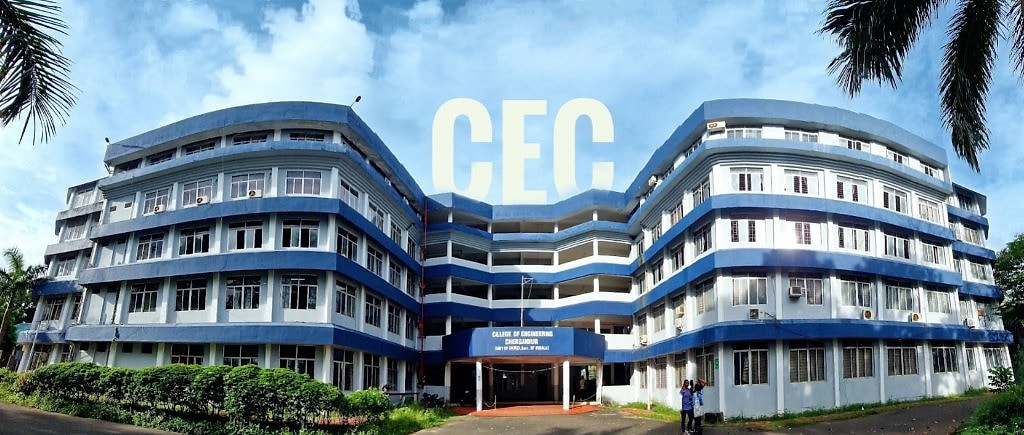
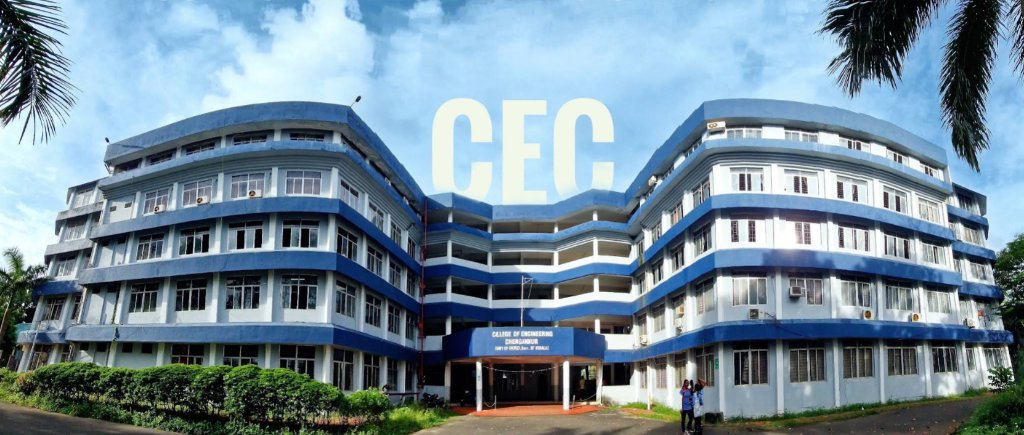
feat: integrate uploaded college campus photo with WebP and editorial styling

diff --git a/src/sections/Venue.jsx b/src/sections/Venue.jsx
@@ -54,7 +54,7 @@ function MapFacade() {
   const linkLabel = mapsUrl ? 'Open in Google Maps' : 'Search on Google Maps'
 
   return (
-    <div className="rounded-[var(--radius-md)] overflow-hidden border border-[var(--color-near-black)]/10 bg-white shadow-xs w-full">
+    <div className="rounded-[var(--radius-md)] overflow-hidden border border-[var(--color-near-black)]/12 bg-white shadow-xs w-full">
       {/* Map area: full width aspect-[4/3] without right-edge gap */}
       <div className="relative bg-[var(--color-cream)] w-full aspect-[4/3] overflow-hidden">
         {!loaded ? (
@@ -126,7 +126,7 @@ function MapFacade() {
       </div>
 
       {/* Footer link */}
-      <div className="px-4 py-3 bg-white border-t border-[var(--color-near-black)]/5 flex items-center justify-between">
+      <div className="px-4 py-3 bg-white border-t border-[var(--color-near-black)]/10 flex items-center justify-between">
         <a
           href={linkUrl}
           target="_blank"
@@ -198,7 +198,7 @@ export default function Venue() {
           <div className="mb-10 lg:mb-0">
             {/* Campus photo or geometric panel */}
             {eventConfig.venue.photo ? (
-              <div className="rounded-[var(--radius-md)] overflow-hidden border border-[var(--color-near-black)]/10 mb-8 bg-white shadow-xs">
+              <div className="group rounded-[var(--radius-md)] overflow-hidden border border-[var(--color-near-black)]/12 mb-8 bg-white shadow-xs hover:shadow-md transition-shadow duration-300">
                 <div className="relative aspect-[2.35/1] overflow-hidden bg-[var(--color-near-black)]/5">
                   <picture>
                     <source srcSet="/images/cec-campus.webp" type="image/webp" />
@@ -209,25 +209,39 @@ export default function Venue() {
                       height="435"
                       loading="lazy"
                       decoding="async"
-                      className="w-full h-full object-cover object-center"
+                      className="w-full h-full object-cover object-center transition-transform duration-700 ease-out group-hover:scale-[1.025] motion-reduce:transform-none"
                     />
                   </picture>
+
+                  {/* Gradient scrim at bottom for text legibility */}
+                  <div
+                    className="absolute inset-x-0 bottom-0 h-16 bg-gradient-to-t from-[var(--color-near-black)]/60 via-[var(--color-near-black)]/20 to-transparent pointer-events-none"
+                    aria-hidden="true"
+                  />
+
                   {/* Subtle location tag pill overlay */}
                   <span
-                    className="absolute bottom-3 left-3 px-2.5 py-1
+                    className="absolute bottom-3 left-3 px-3 py-1
                                font-[family-name:var(--font-body)] text-[11px] font-medium tracking-wide
-                               bg-[var(--color-near-black)]/75 text-[var(--color-cream)]
-                               rounded-[var(--radius-full)] backdrop-blur-xs shadow-xs"
+                               bg-[var(--color-near-black)]/85 text-[var(--color-cream)]
+                               rounded-[var(--radius-full)] backdrop-blur-xs shadow-xs
+                               flex items-center gap-1.5 border border-white/10"
                   >
+                    <svg className="w-3 h-3 text-[var(--color-orange)]" viewBox="0 0 12 12" fill="currentColor" aria-hidden="true">
+                      <path d="M6 1C4.343 1 3 2.343 3 4c0 2.25 3 7 3 7s3-4.75 3-7c0-1.657-1.343-3-3-3zm0 4.25a1.25 1.25 0 1 1 0-2.5 1.25 1.25 0 0 1 0 2.5z" />
+                    </svg>
                     Main Block · Chengannur
                   </span>
                 </div>
-                <div className="px-4 py-3 bg-white border-t border-[var(--color-near-black)]/5 flex items-center justify-between">
-                  <span className="font-[family-name:var(--font-body)] text-xs text-[var(--color-near-black)] opacity-70 font-medium">
+                <div className="px-4 py-3 bg-white border-t border-[var(--color-near-black)]/10 flex items-center justify-between">
+                  <span className="font-[family-name:var(--font-body)] text-xs text-[var(--color-near-black)] opacity-80 font-medium">
                     {eventConfig.venue.college}
                   </span>
-                  <span className="font-[family-name:var(--font-body)] text-[11px] text-[var(--color-near-black)] opacity-50 uppercase tracking-widest flex items-center gap-1.5">
-                    <span className="w-1.5 h-1.5 rounded-full bg-[var(--color-orange)] inline-block" aria-hidden="true" />
+                  <span className="font-[family-name:var(--font-body)] text-[11px] text-[var(--color-near-black)] opacity-60 uppercase tracking-widest flex items-center gap-2 font-medium">
+                    <span className="relative flex h-2 w-2" aria-hidden="true">
+                      <span className="animate-ping absolute inline-flex h-full w-full rounded-full bg-[var(--color-orange)] opacity-75 motion-reduce:hidden" />
+                      <span className="relative inline-flex rounded-full h-2 w-2 bg-[var(--color-orange)]" />
+                    </span>
                     Host Campus
                   </span>
                 </div>
